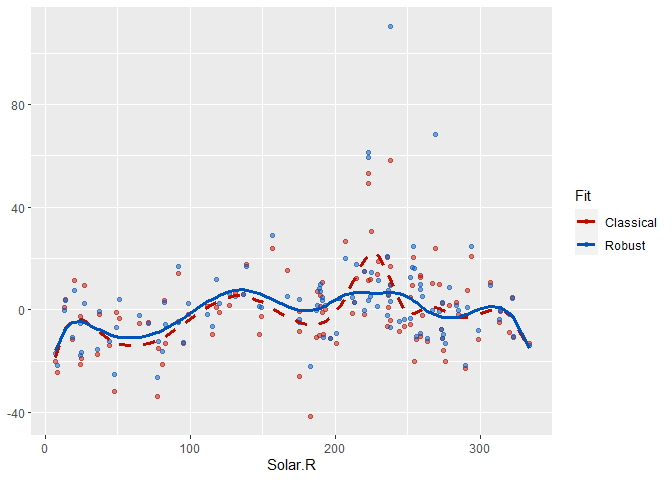
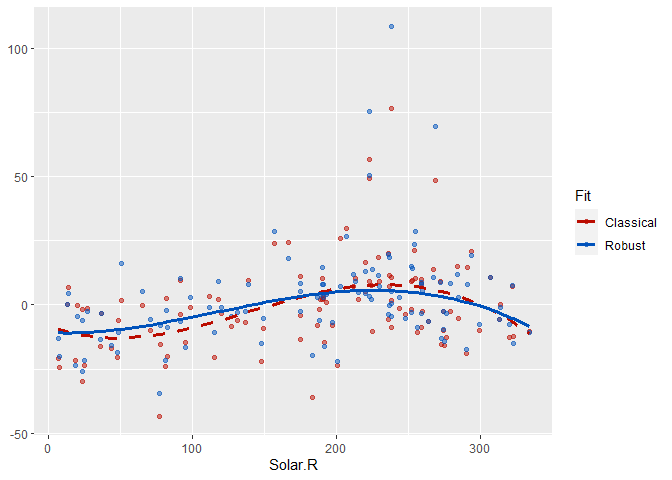
New plots

diff --git a/README.md b/README.md
@@ -39,7 +39,7 @@ nk.cl <- select.nknots.cl(y,Z,X,degree.spline=degree.spline)
 nk.cl$nknots
 ```
 
-    ## [1] 9
+    ## [1] 1
 
 And so is the number of internal knots selected using the RBIC criteria used for the robust proposal.
 
@@ -48,7 +48,7 @@ nk.rob <- select.nknots.rob(y,Z,X,degree.spline=degree.spline)
 nk.rob$nknots
 ```
 
-    ## [1] 9
+    ## [1] 1
 
 Classical estimation of a partially linear additive model
 
@@ -66,13 +66,13 @@ When no number of internal knots is specified, functions select.knots.cl or sele
 
 The estimations obtained for each linear coefficient for both classical and robust approaches are shown it the following Table.
 
-|                 |   Classical|       Robust|
-|-----------------|-----------:|------------:|
-| *β*<sub>0</sub> |   49.230699|   42.6283885|
-| *β*<sub>1</sub> |  -13.088702|  -12.8228650|
-| *β*<sub>2</sub> |   -4.768714|   -0.2128605|
-| *β*<sub>3</sub> |   -2.936557|    1.5242527|
-| *β*<sub>4</sub> |  -16.630411|   -9.2577636|
+|                 |   Classical|      Robust|
+|-----------------|-----------:|-----------:|
+| *β*<sub>0</sub> |   46.053662|  40.6513100|
+| *β*<sub>1</sub> |   -6.736466|  -5.6409264|
+| *β*<sub>2</sub> |   -4.613679|  -0.5397012|
+| *β*<sub>3</sub> |    3.906954|   5.1664537|
+| *β*<sub>4</sub> |  -12.008022|  -5.8161019|
 
 The following three plots correspond to the classical (in red and dashed line) and robust (in blue and solid line) fits for the additive functions with their respectively partial residuals. ![](README_files/figure-markdown_github/ggplot1-1.png)![](README_files/figure-markdown_github/ggplot1-2.png)![](README_files/figure-markdown_github/ggplot1-3.png)
 
@@ -84,7 +84,7 @@ summary(res.rob)
 ```
 
     ##     Min.  1st Qu.   Median     Mean  3rd Qu.     Max. 
-    ## -21.7551  -6.2581  -0.2832   2.6631   7.6366 103.6170
+    ## -27.4217  -6.7043  -0.2795   2.4806   7.7085 102.9287
 
 ![](README_files/figure-markdown_github/residuals2-1.png)
 
@@ -94,7 +94,7 @@ The residuals detected as outliers are:
 p1.info$outliers[[1]]
 ```
 
-    ## [1]  54.69827  70.38513  52.77027 103.61697
+    ## [1]  69.68170  66.01789  44.79089 102.92874
 
 which correspond to observations 23, 34, 53 and 77. Highlighting the partial residuals of these four observations (in pink) we obtain the following plots:
 
@@ -113,13 +113,13 @@ fit.del.cl <- plam.cl(y.del, Z.del, X.del)
 
 New estimated linear coefficients with the previuos ones are shown in the following table.
 
-|                 |   Classical|       Robust|  Classical on clean data|
-|-----------------|-----------:|------------:|------------------------:|
-| *β*<sub>0</sub> |   49.230699|   42.6283885|                39.948805|
-| *β*<sub>1</sub> |  -13.088702|  -12.8228650|               -10.964194|
-| *β*<sub>2</sub> |   -4.768714|   -0.2128605|                 3.167666|
-| *β*<sub>3</sub> |   -2.936557|    1.5242527|                 4.489971|
-| *β*<sub>4</sub> |  -16.630411|   -9.2577636|                -7.022334|
+|                 |   Classical|      Robust|  Classical on clean data|
+|-----------------|-----------:|-----------:|------------------------:|
+| *β*<sub>0</sub> |   46.053662|  40.6513100|               39.3740650|
+| *β*<sub>1</sub> |   -6.736466|  -5.6409264|               -4.9202606|
+| *β*<sub>2</sub> |   -4.613679|  -0.5397012|               -0.1260116|
+| *β*<sub>3</sub> |    3.906954|   5.1664537|                6.4751791|
+| *β*<sub>4</sub> |  -12.008022|  -5.8161019|               -5.5576644|
 
 The following plots correspond to the new curves obtained with the classical fit (in red dashed line) using the data without the potential outliers identified by the robust fit together with the curves obtained by the robust fit on the original data set.
 
